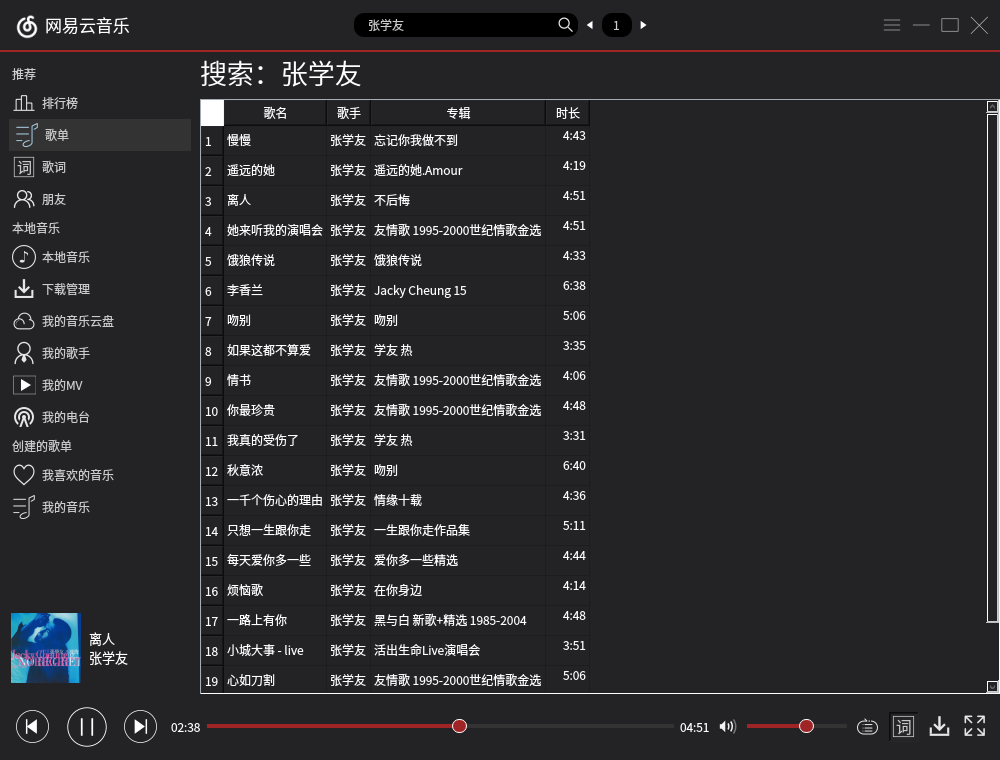
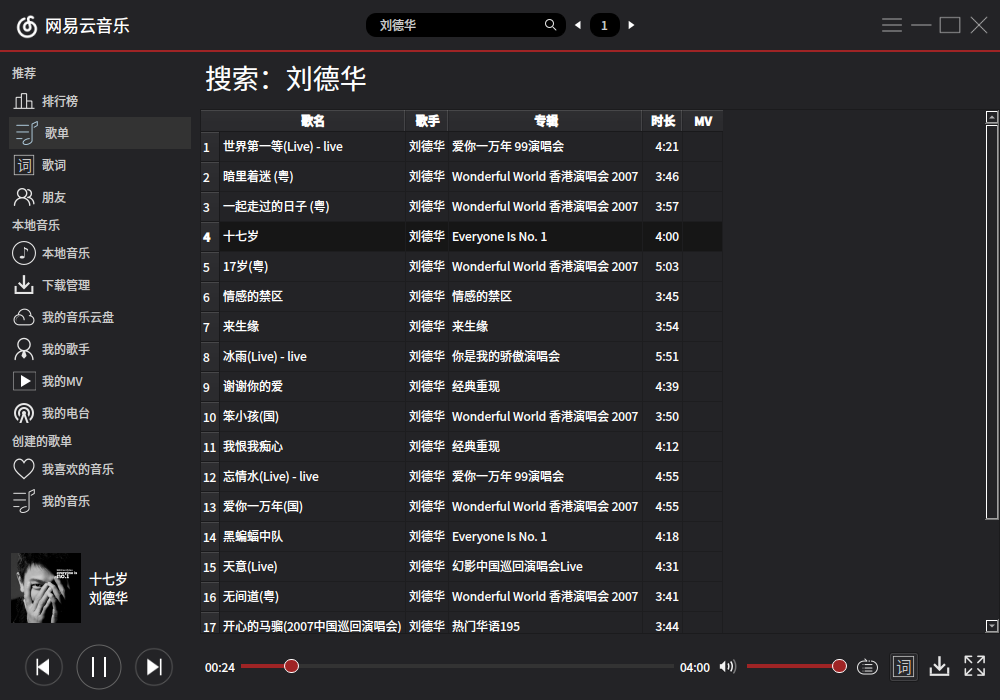
更新搜索预览图

diff --git a/README.md b/README.md
@@ -3,7 +3,6 @@
 已完成功能：排行榜点播，搜索歌曲，MV。  
 音乐版权归网易所有。  
 
-
 ![alt](toplist.png)  
 
 ![alt](songlist.png)  
@@ -21,4 +20,4 @@ https://github.com/gcmwhite/CloudMusic-Bc-5
 http://get.ftqq.com/7430.get  
 https://github.com/metowolf/NeteaseCloudMusicApi
 
-跳转URL处理 https://blog.csdn.net/mingzznet/article/details/9724371
+跳转URL处理: https://blog.csdn.net/mingzznet/article/details/9724371
